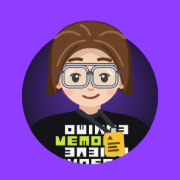
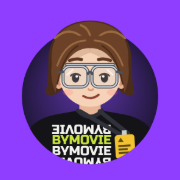
Print BYMOVIE on Kostik's t-shirt
Claude-Session: https://claude.ai/code/session_018ECGFGQoprP9gjCMSB4wNz

Changed region(s): [[0.2778, 0.6389, 0.75, 0.9167], [0.4444, 0.6111, 0.5, 0.6389]]

diff --git a/index.html b/index.html
@@ -684,6 +684,19 @@ button:focus-visible { outline: 3px solid var(--signal); outline-offset: 2px; }
     ctx.fillText(t.label, lx, gy - 32 + bob);
   }
 
+  // "BYMOVIE" print: three rows, lime in the middle, squeezed to width w
+  function teePrint(c, x, y, w, step, size, flipOuter) {
+    c.save();
+    c.font = `400 ${size}px "Russo One", "Arial Black", sans-serif`;
+    c.textAlign = 'center'; c.textBaseline = 'middle';
+    [['#f4f4f0', flipOuter], ['#c8e43c', false], ['#f4f4f0', false], ['#f4f4f0', flipOuter]].slice(0, flipOuter ? 4 : 3).forEach(([col, flip], i) => {
+      c.save(); c.translate(x, y + i * step); if (flip) c.rotate(Math.PI);
+      c.fillStyle = col; c.fillText('BYMOVIE', 0, 0.4, w);
+      c.restore();
+    });
+    c.restore();
+  }
+
   function seg(pts) { ctx.moveTo(pts[0][0], pts[0][1]); for (let i = 1; i < pts.length; i++) ctx.lineTo(pts[i][0], pts[i][1]); }
 
   function drawBike(x, g, ang, rot, rider = true) {
@@ -723,9 +736,7 @@ button:focus-visible { outline: 3px solid var(--signal); outline-offset: 2px; }
     // rider: oversized black tee with a white/lime print and a badge on a lanyard
     ctx.save(); ctx.translate(-2, -32.5); ctx.rotate(0.6);
     ctx.fillStyle = '#16161b'; rr(-5.8, -6.5, 12.3, 14, 3.4); ctx.fill();
-    for (const [y, c, bars] of [[-3.6, '#f4f4f0', [[-3.4, 2.6], [-0.2, 1.3], [1.7, 3.6]]], [-0.9, '#c8e43c', [[-3.8, 3.4], [0.2, 4.6]]], [1.8, '#f4f4f0', [[-3, 1.4], [-1, 3], [2.6, 2.6]]]]) {
-      ctx.fillStyle = c; for (const [bx, bw] of bars) ctx.fillRect(bx, y, bw, 2);
-    }
+    teePrint(ctx, 0.3, -3, 11, 2.8, 3.2);
     ctx.strokeStyle = '#2c2c34'; ctx.lineWidth = 1; ctx.beginPath(); seg([[1.2, -6.3], [4, 1.6]]); ctx.stroke();
     ctx.fillStyle = '#f2c230'; rr(2.4, 1.4, 3.4, 4.2, 0.7); ctx.fill();
     ctx.restore();
@@ -788,26 +799,11 @@ button:focus-visible { outline: 3px solid var(--signal); outline-offset: 2px; }
     p.beginPath(); p.moveTo(4, S); p.lineTo(9, 84); p.quadraticCurveTo(13, 71, 30, 68); p.lineTo(44, 65.5);
     p.quadraticCurveTo(52, 73, 60, 65.5); p.lineTo(74, 68); p.quadraticCurveTo(91, 71, 95, 84); p.lineTo(100, S); p.closePath(); p.fill();
     line(2.6, '#2c2c34', () => { p.moveTo(44, 65.6); p.quadraticCurveTo(52, 73.5, 60, 65.6); });
-    // chunky typographic print, one lime row
-    const glyph = (x, y, w, k, c) => {
-      const h = 6;
-      p.fillStyle = c; p.fillRect(x, y, w, h);
-      p.fillStyle = TEE;
-      if (k === 'O') p.fillRect(x + w * 0.34, y + 1.8, w * 0.32, 2.4);
-      else if (k === 'E') { p.fillRect(x + w * 0.45, y + 1.5, w * 0.55, 1); p.fillRect(x + w * 0.45, y + 3.5, w * 0.55, 1); }
-      else if (k === 'M') { p.fillRect(x + w * 0.3, y + 3, w * 0.12, 3); p.fillRect(x + w * 0.58, y + 3, w * 0.12, 3); }
-      else if (k === 'V') { p.beginPath(); p.moveTo(x + w * 0.28, y); p.lineTo(x + w * 0.5, y + 3.8); p.lineTo(x + w * 0.72, y); p.fill(); }
-    };
-    [[75, '#f4f4f0', 'EOVIMO'], [82.4, '#c8e43c', 'VEMOI'], [89.8, '#f4f4f0', 'OMIEVE'], [97.2, '#f4f4f0', 'MVOEO']].forEach(([y, c, s], r) => {
-      p.save();
-      if (r % 2 === 0) { p.translate(104, 2 * y + 6); p.scale(-1, -1); }
-      let x = 27 + (r % 2) * 2.5;
-      for (const k of s) { const w = k === 'I' ? 2.4 : 6.2; glyph(x, y, w, k, c); x += w + 1.6; }
-      p.restore();
-    });
+    // BYMOVIE print, white rows around a lime one, the outer rows upside down like on the real tee
+    teePrint(p, 46.5, 77.5, 39, 7.2, 8.6, true);
     // lanyard + yellow badge
-    line(2.8, '#30313a', () => { p.moveTo(45.5, 66); p.lineTo(64.5, 80); p.moveTo(58.5, 66); p.lineTo(70, 79.5); });
-    p.save(); p.translate(68, 87); p.rotate(-0.06);
+    line(2.8, '#30313a', () => { p.moveTo(45.5, 66); p.lineTo(71.5, 81); p.moveTo(58.5, 66); p.lineTo(77, 80.5); });
+    p.save(); p.translate(75, 88.5); p.rotate(-0.06);
     p.fillStyle = '#c9ced6'; p.fillRect(-1.6, -10, 3.2, 3.4);
     p.fillStyle = '#f2c230'; rr(-6.5, -7.2, 13, 15.6, 2, p); p.fill();
     p.fillStyle = 'rgba(40,30,10,.75)';
@@ -1038,9 +1034,7 @@ button:focus-visible { outline: 3px solid var(--signal); outline-offset: 2px; }
     // torso: oversized black tee with the white/lime print
     ctx.save(); ctx.translate((sh[0] + hip[0]) / 2, (sh[1] + hip[1]) / 2); ctx.rotate(Math.atan2(hip[1] - sh[1], hip[0] - sh[0]));
     ctx.fillStyle = '#16161b'; rr(-10, -6.5, 20, 13, 4); ctx.fill();
-    for (const [yy, c, bars] of [[-3.8, '#f4f4f0', [[-6, 3], [-1.6, 2], [1.6, 4]]], [-1, '#c8e43c', [[-6.4, 4.4], [-0.6, 5.4]]], [1.8, '#f4f4f0', [[-5.4, 2], [-2, 3.6], [3, 3]]]]) {
-      ctx.fillStyle = c; for (const [bx, bw] of bars) ctx.fillRect(bx, yy, bw, 2);
-    }
+    teePrint(ctx, 0, -3.4, 15, 2.8, 3.4);
     ctx.fillStyle = '#f2c230'; rr(-2.4, 3.2, 3.6, 4.4, 0.7); ctx.fill();
     ctx.restore();
     // near arm hanging down onto the roof
@@ -1109,6 +1103,7 @@ button:focus-visible { outline: 3px solid var(--signal); outline-offset: 2px; }
   }
 
   // ---- sizing ----
+  let fontsHooked = false;
   function resize() {
     const r = stage.getBoundingClientRect();
     const aw = Math.max(200, r.width), ah = Math.max(200, r.height);
@@ -1120,6 +1115,10 @@ button:focus-visible { outline: 3px solid var(--signal); outline-offset: 2px; }
     cv.width = Math.floor(W * scale * dpr);
     cv.height = Math.floor(H * scale * dpr);
     if (pDpr !== dpr) { pDpr = dpr; drawPortrait($('hero'), false); drawPortrait($('heroOver'), true); }
+    if (!fontsHooked && document.fonts) {
+      fontsHooked = true;
+      document.fonts.load('400 8px "Russo One"').then(() => { drawPortrait($('hero'), false); drawPortrait($('heroOver'), true); }, () => {});
+    }
   }
 
   // ---- HUD + storage ----
